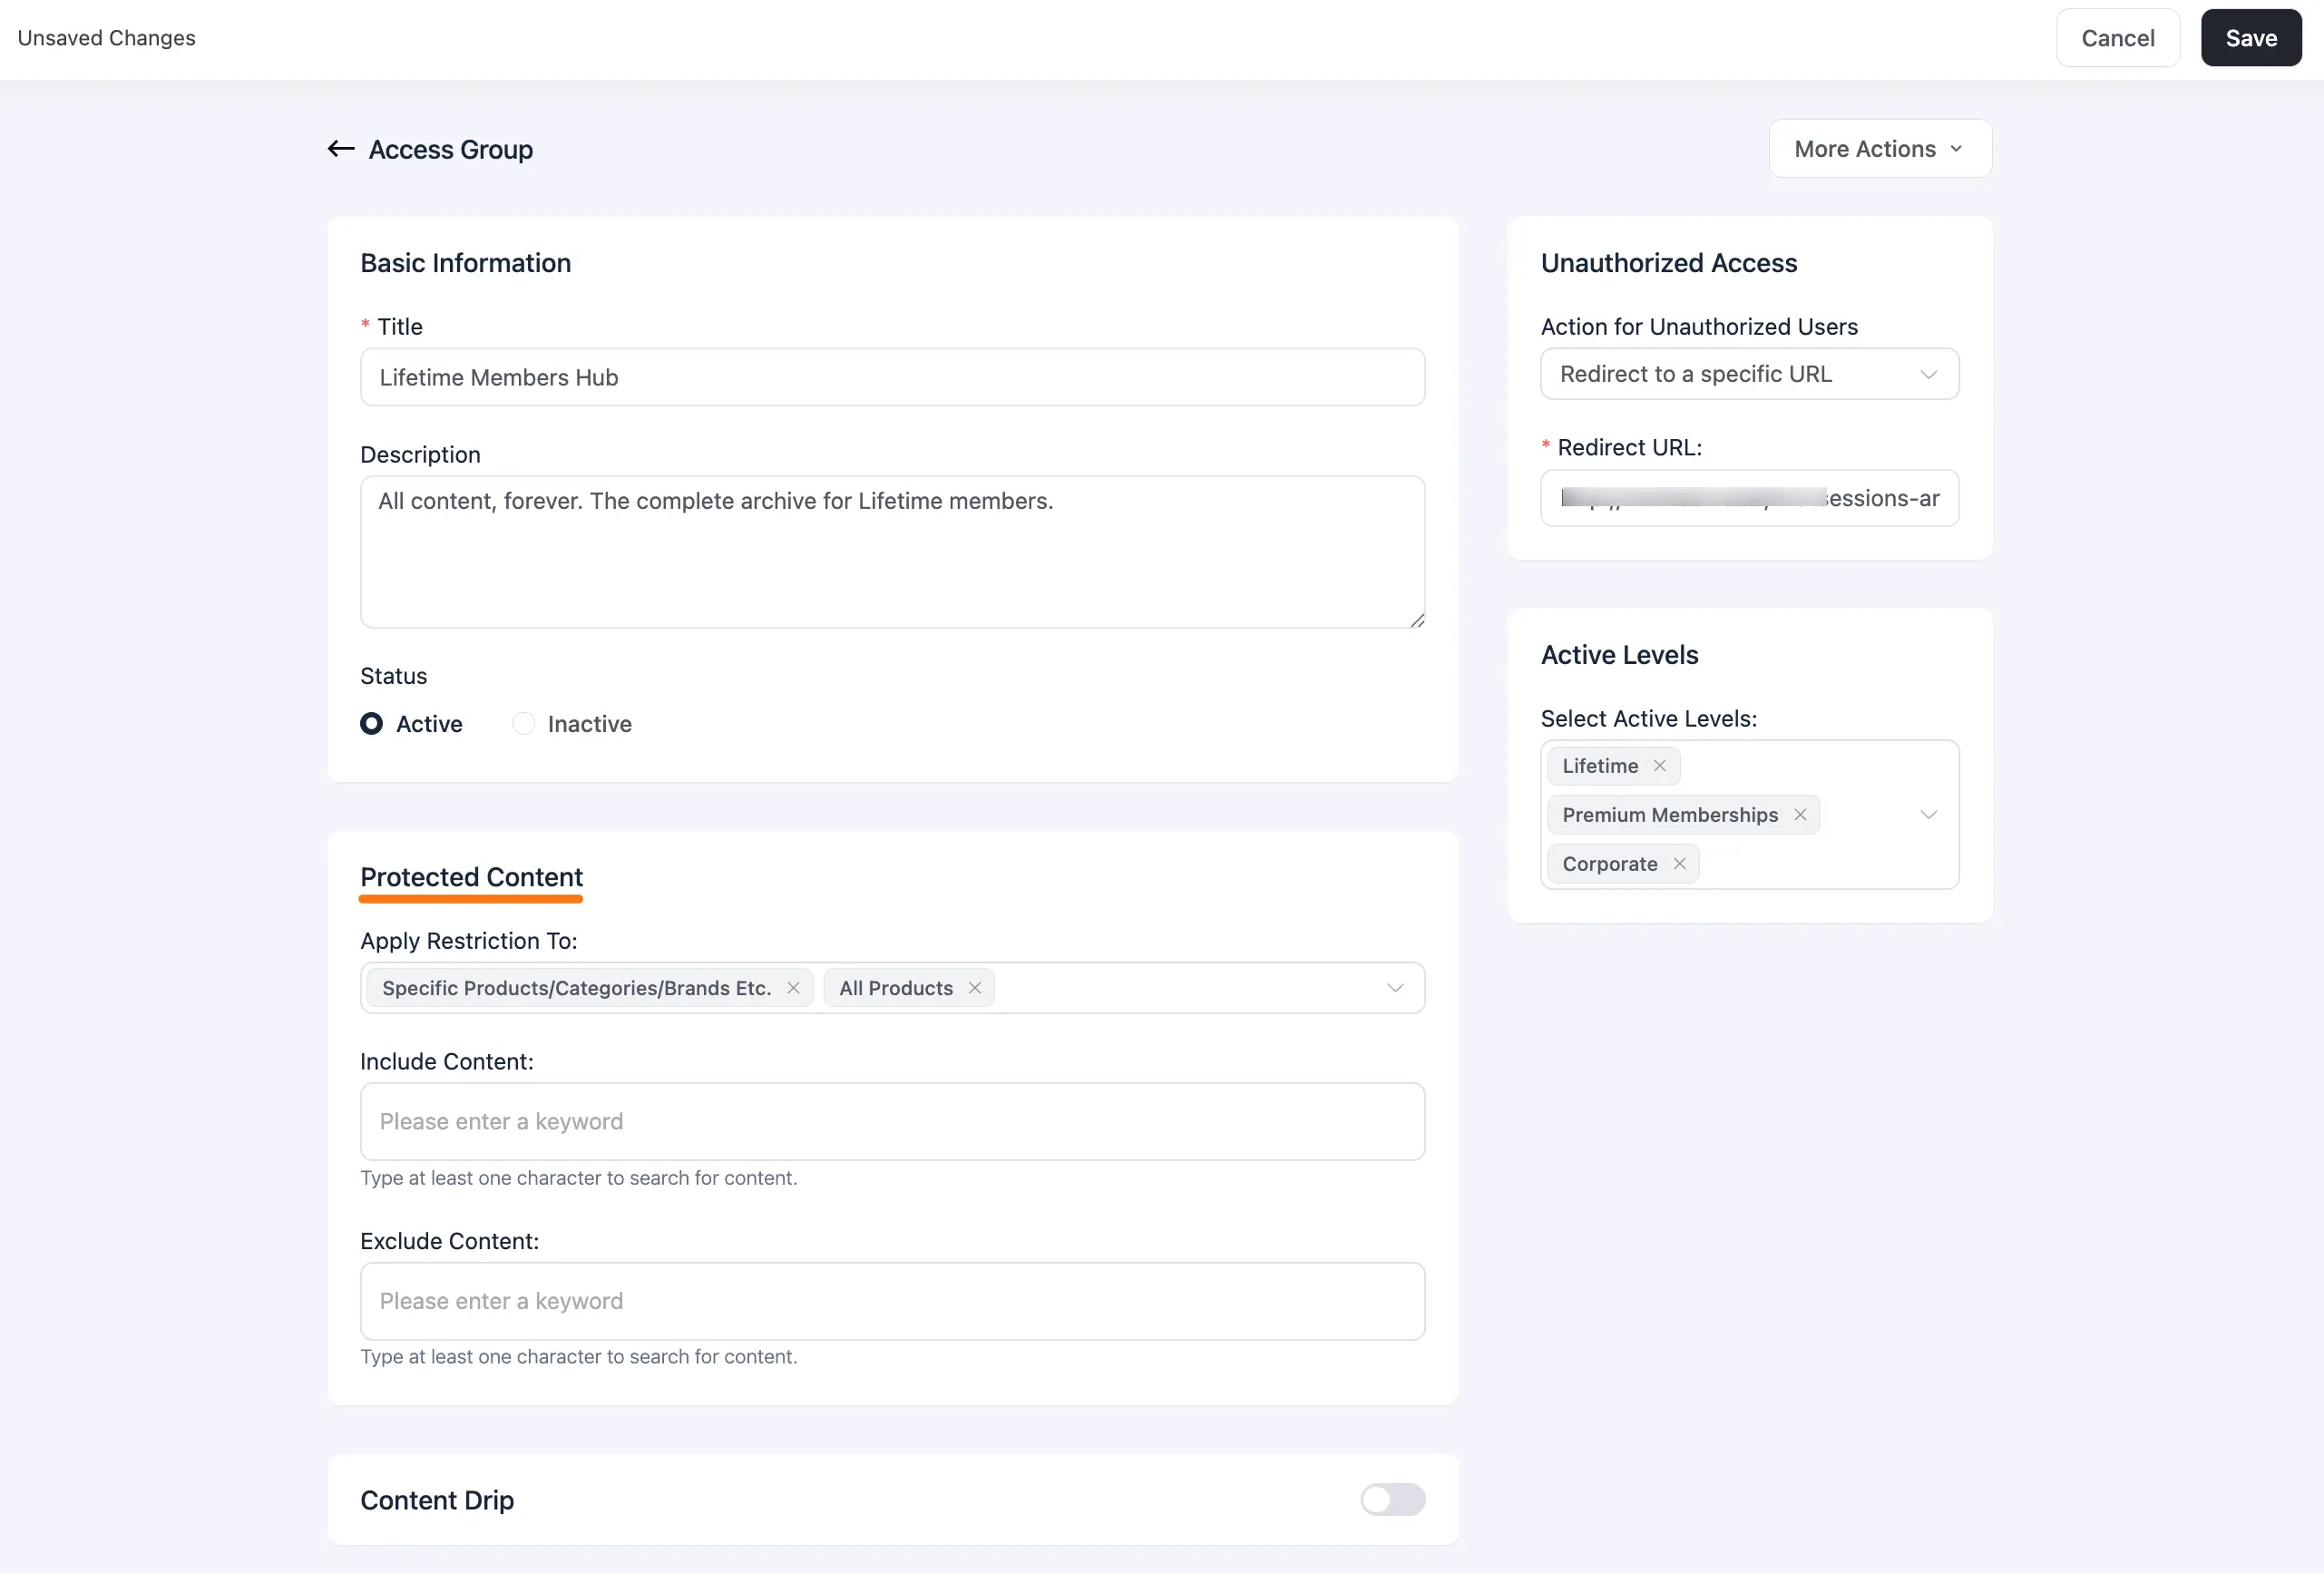
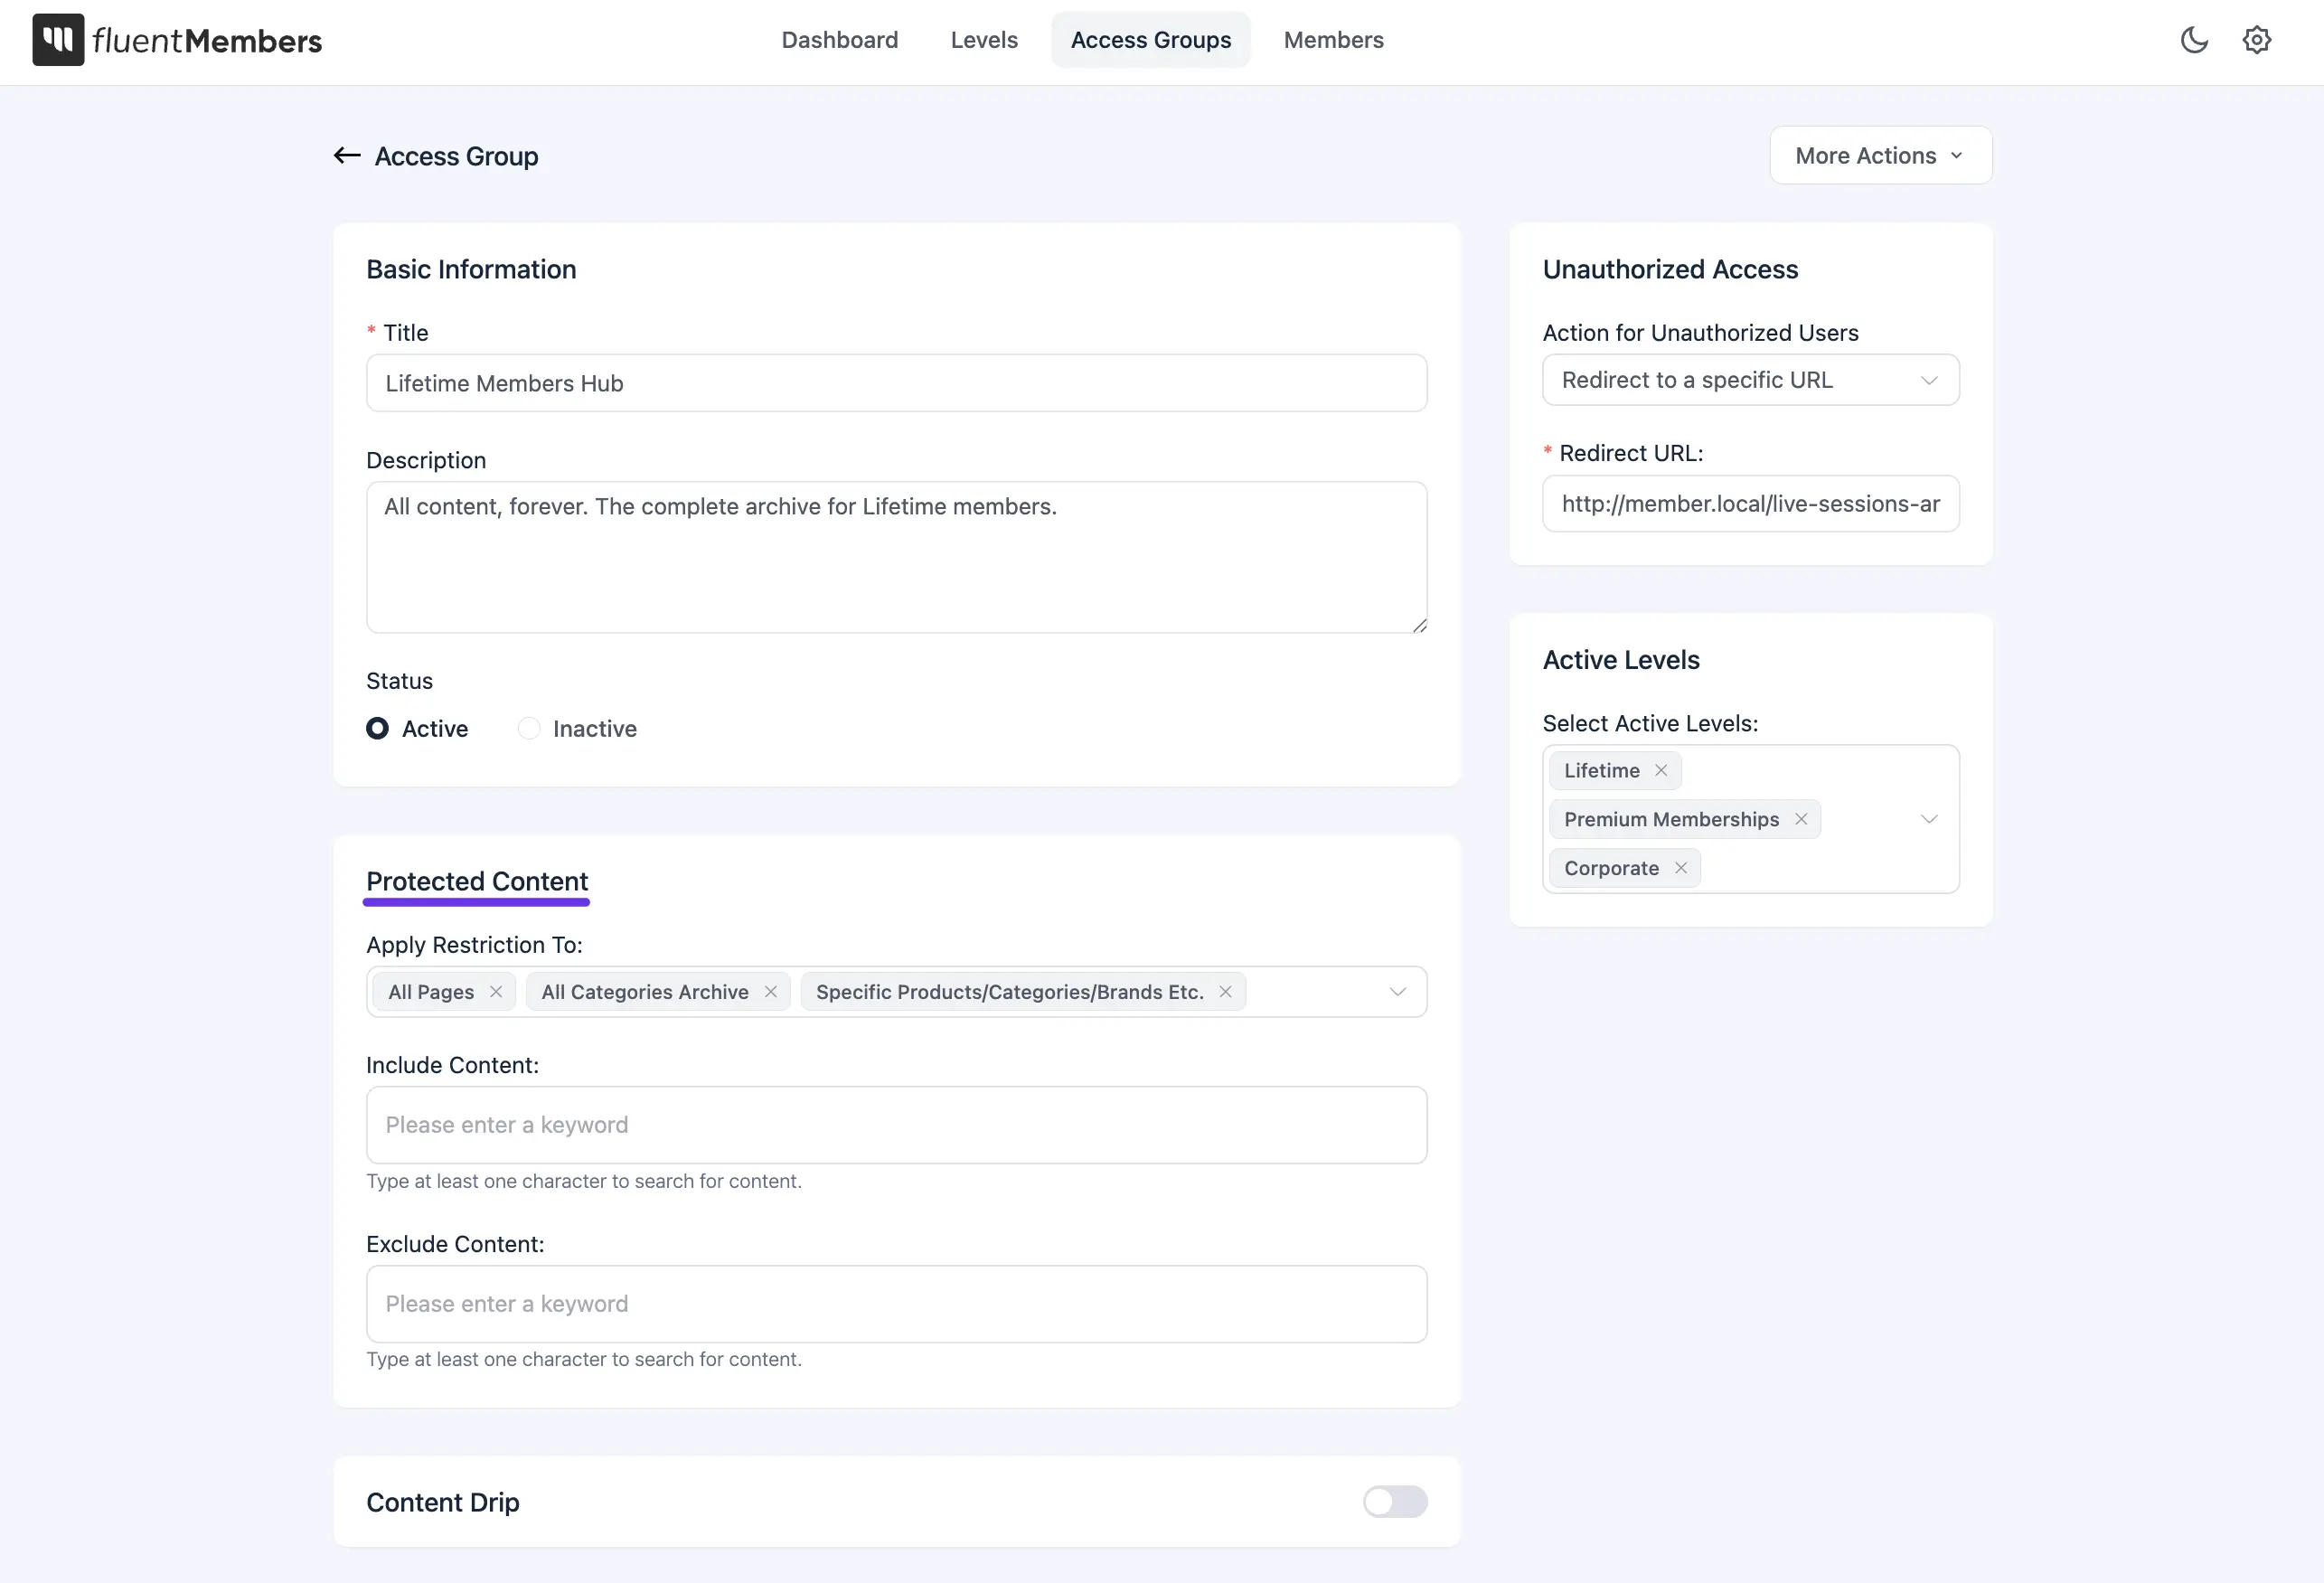
Inserting the Access Groups Block update

diff --git a/guide/access-groups/gutenberg-block/inserting.md b/guide/access-groups/gutenberg-block/inserting.md
@@ -1,114 +1,56 @@
-# Gutenberg "Access Groups" Block, Inserting
+# Inserting the Access Groups Block
 
-Fluent Members ships one Gutenberg block: **Access Groups**. It's a *container* block, wrap any inner blocks inside it, and you've gated *just those blocks* (not the whole post). Useful when most of a page is public but one section is members-only.
+You do not always need to restrict an entire page or post. Fluent Members lets you hide specific sections, like a premium video or a download link, inside a public post using the Gutenberg block editor. You can restrict a single block, or use the dedicated **Access Groups** container block to protect several blocks at once.
 
-**Here's what you'll learn:**
-- How to find the block in the WordPress block inserter.
-- What the inserted block looks like and what its toolbar shows.
-- The difference between gating a whole post (via an Access Group's Protected Content rule) and gating *just one block* inside a post (this block).
 
-**Before we start:** You're editing a post or page in WordPress. You've already created at least one [Access Group](../).
+## Restrict Content in the Block Editor
 
----
+### Method 1: Restrict a Single Block
 
-## Step 1: Open the block inserter
+If you only need to protect one specific piece of content, you don't need a special block.
 
-In the post editor:
+1. Click on any standard block (Paragraph, Image, Heading, etc.) inside your WordPress editor.
+2. Look at the right sidebar and make sure you're on the **Block** tab.
+3. Scroll down to find the **Access Groups** panel.
+4. Check the box next to the Group(s) that should be allowed to see this block.
 
-1. Click the **+** button (top-left of the editor, or inline between blocks).
-2. In the search box, type **Fluent Member**. The result *Access Groups* appears with a padlock icon.
-3. Click it.
+### Method 2: Use the Access Groups Container (for multiple blocks)
 
-The block is inserted into the post with placeholder text *"Add content here…"* and an inner-block prompt *"Type / to choose a block"*.
+If you want to protect several blocks together, use the dedicated container block.
 
-![Block inserter searching for Fluent Member](/screenshots/gutenberg-inserter.webp)
+1. Click the **+** button in the post editor to add a new block.
+2. Type **fluent member** in the search box.
+3. Click the **Access Groups** block from the results, it has a padlock icon.
 
----
+![Block inserter ](/images/access-groups/inserting/gutenberg-access-group-1.webp)
 
-## Step 2: Understand what you just inserted
-
-The Access Groups block is a **container**, by itself it does nothing. You add WordPress blocks inside it, and *those inner blocks* are what get protected.
-
-[Screenshot: Inserted Access Groups block with empty content area and toolbar visible]
-
-Toolbar elements:
-
-| Icon                | What it does                                                       |
-|---------------------|--------------------------------------------------------------------|
-| **Padlock**         | Visual indicator, this is the Access Groups container.            |
-| **Drag handle (⠿)** | Reorder the block within the post (standard Gutenberg).            |
-| **Up / Down arrows**| Move up or down one slot.                                          |
-| **Kebab (⋮)**       | Standard block actions (duplicate, remove, copy, etc.).            |
-
-::: tip In plain language
-Think of the block as a glass cabinet on the page. The cabinet itself is visible, but what's *inside* the cabinet only unlocks for members. The next page ([Configuring](./configuring)) is where you pick *which* members.
-:::
-
----
-
-## Step 3: Add inner blocks
-
-With the Access Groups block selected, click into the placeholder *"Add content here…"* and start typing. The slash command (`/`) opens the inner-block picker. Add any blocks you want gated:
-
-- Paragraphs, headings, lists, images.
-- Buttons, columns, groups.
-- Embeds (YouTube, Vimeo, etc.).
-- Other plugins' blocks.
-
-These nested blocks are the members-only payload. Anything *outside* the Access Groups block stays public.
+4. Click inside the new container block and start adding your protected content, text, images, video embeds, or any other block.
+5. Select the main **Access Groups** container block, go to the right sidebar, and check the desired Group(s) in the **Access Groups** panel to lock everything inside.
 
 ::: warning Some inner blocks have caveats
-A few core blocks (Query Loop, certain pattern blocks) re-fetch their content from REST endpoints. Those won't automatically respect the wrapping container's protection, see [Nesting & Limits](./nesting-and-limits) for the full list.
+A few core blocks (Query Loop, certain pattern blocks) re-fetch their content from REST endpoints. Those won't automatically respect the wrapping container's protection, see [Nesting & Limits](/guide/access-groups/gutenberg-block/nesting-and-limits) for the full list.
 :::
 
----
+## Block vs. Protected Content Rule
 
-## When to use this block vs an Access Group Protected Content rule
-
-| Use case                                          | Use this block | Use an Access Group rule |
-|---------------------------------------------------|:--:|:--:|
-| Whole post is members-only                       | ❌ | ✅ |
-| Only a footer section of a post is members-only  | ✅ | ❌ |
+| Use case | Use this block | Use an Access Group rule |
+|---|:--:|:--:|
+| Whole post is members-only | ❌ | ✅ |
+| Only a footer section of a post is members-only | ✅ | ❌ |
 | A landing page mixes public + member-only blocks | ✅ | ❌ |
-| Every post in a CPT is members-only              | ❌ | ✅ |
-| One specific post is members-only                | ❌ | ✅ (Specific picker) |
+| Every post in a CPT is members-only | ❌ | ✅ |
+| One specific post is members-only | ❌ | ✅ (Specific picker) |
 
 ::: tip Cleanest pattern
-For "whole post" cases use a [Protected Content rule](../protected-content). The block is for *intra-post* mixes, public intro + member-only middle + public CTA.
+For "whole post" cases use a [Protected Content rule](/guide/access-groups/protected-content). Restricting a block, either directly or via the container, is for *intra-post* mixes: public intro + member-only middle + public CTA.
 :::
 
----
-
-## A real example: Sara's free post with a hidden video
-
-Sara writes a free blog post: *"5 stretches you can do at your desk."* Four of the stretches are public; the fifth (with a video walkthrough) is Pro Yoga members only.
-
-She:
-
-1. Writes the intro and stretches 1-4 as normal paragraph + image blocks.
-2. Inserts an **Access Groups** block.
-3. Inside, adds a heading *"5. Hip Opener (Pro members)"* and a video embed.
-4. Closes the block, writes a public CTA paragraph: *"Want stretch 5? Join Pro Yoga."*
-
-Non-members see the post normally, with stretch 5 replaced by the fallback action she configures next.
-
----
-
-## Things that trip people up
+## Things That Trip People Up
 
 | What you're seeing | What's probably going on | Quickest fix |
 |---|---|---|
-| Search doesn't find "Fluent Member" | Fluent Members isn't activated, or the editor is in a heavily-customised state. | Confirm activation; refresh the editor. |
-| Block inserts but has no toolbar padlock | Older browser cache or block-editor version mismatch. | Hard refresh; update WordPress. |
-| Inner blocks render to non-members anyway | You forgot to configure the Group picker, that's the next page. | See [Configuring](./configuring). |
+| Search doesn't find "Access Groups" | Fluent Members isn't activated, or the editor is in a heavily-customised state. | Confirm activation; refresh the editor. |
+| No Access Groups panel on a block | The Inspector is on the **Post** tab, not the **Block** tab. | Click the block first, then the **Block** tab in the Inspector. |
+| Content renders to non-members anyway | No Group was ticked in the panel. | Tick at least one Group, then check [Configuring](/guide/access-groups/gutenberg-block/configuring) for the fallback action. |
 
----
 
-## What's next?
-
-- **→ [Configuring the Block](./configuring)**: pick the Access Group(s) and the fallback action for this specific block.
-- **→ [Nesting & Limits](./nesting-and-limits)**: what works inside the block and what doesn't.
-
-**Recommended reading:**
-- [Protected Content, Restriction Types](../protected-content): when you want whole-post protection instead.
-- [Glossary, Access Group block](/guide/getting-started/glossary).